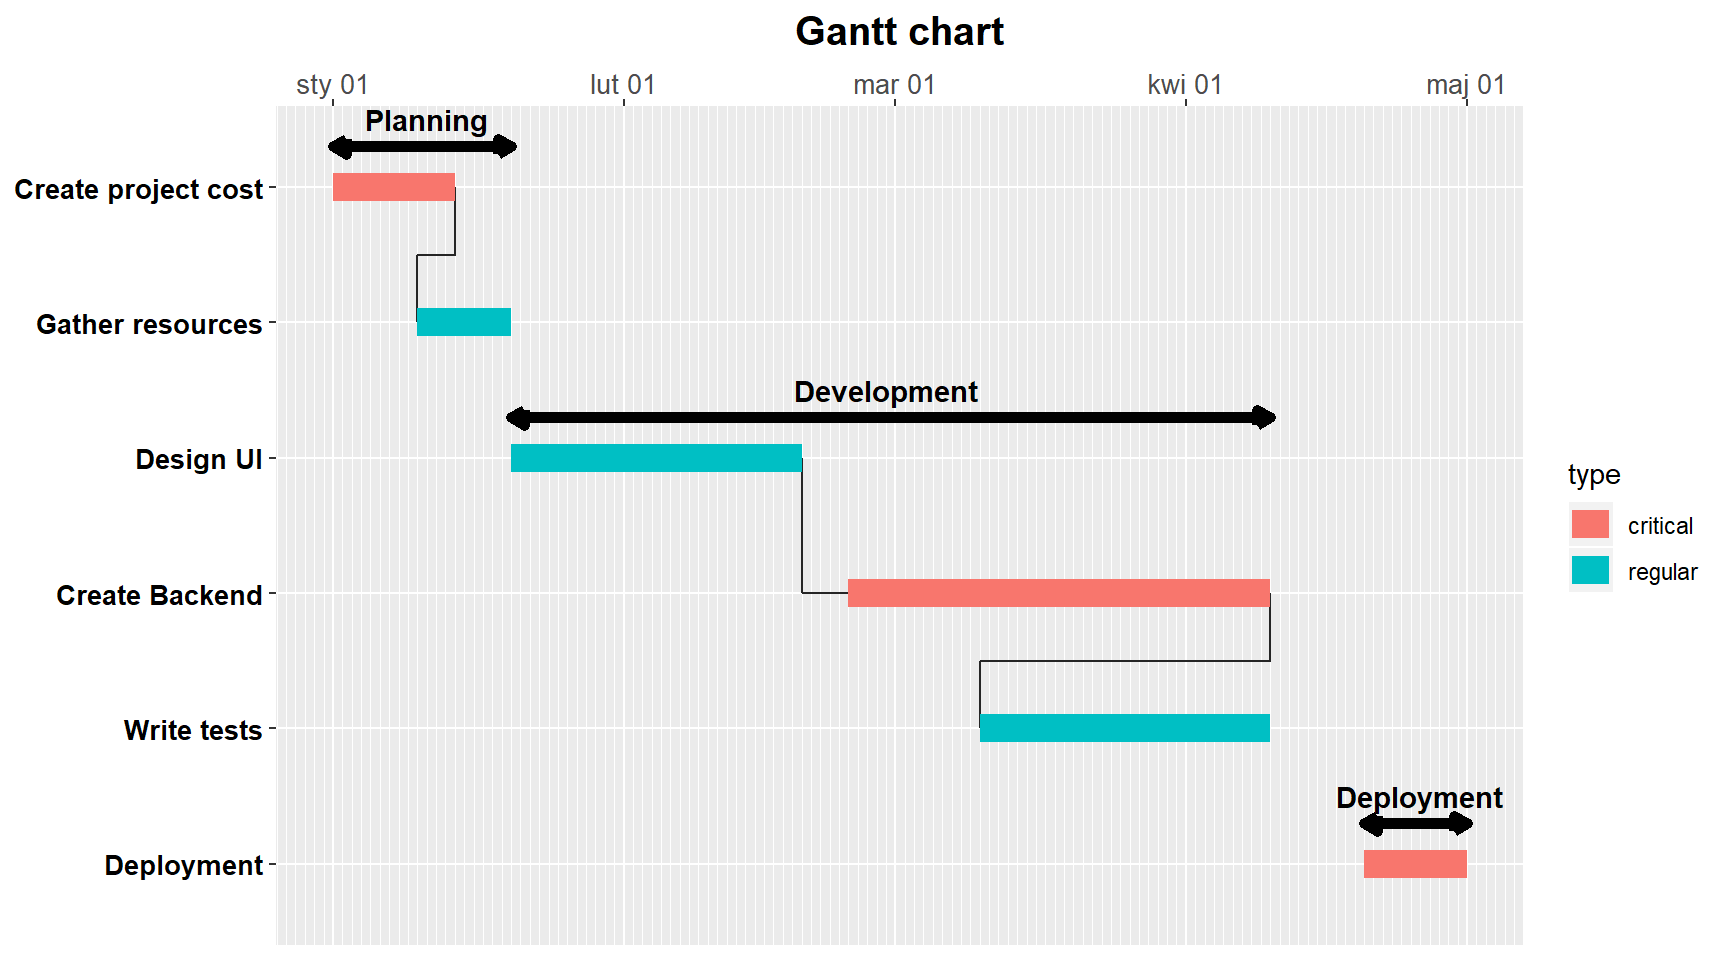
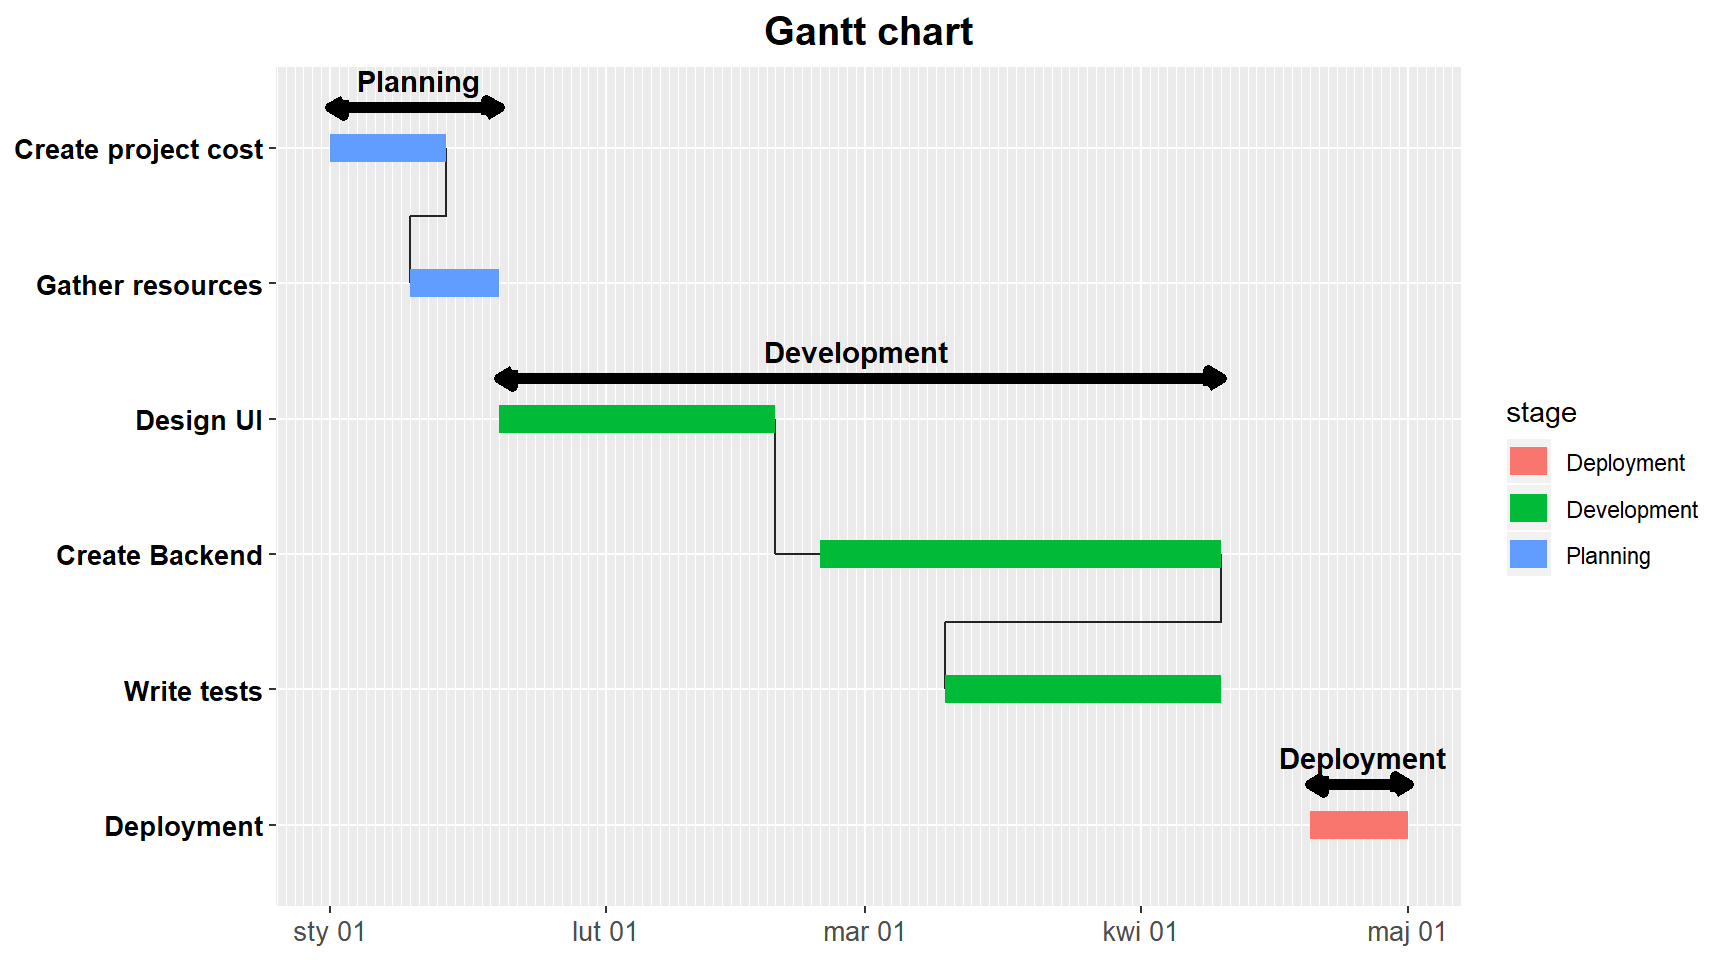
tests added, vignette change

diff --git a/docs/articles/gantt.html b/docs/articles/gantt.html
@@ -214,13 +214,13 @@
 <a href="#case-1" class="anchor"></a>Case #1</h3>
 <p><strong>Requirements</strong>:</p>
 <ul>
-<li>have dates shown in the top of the plot</li>
 <li>tasks are connected with paths in all stages</li>
 <li>task labels are black</li>
+<li>tasks bar should be colored by stages</li>
 </ul>
-<div class="sourceCode" id="cb5"><pre class="sourceCode r"><code class="sourceCode r"><a class="sourceLine" id="cb5-1" data-line-number="1">conf &lt;-<span class="st"> </span>gantt<span class="op">::</span><span class="kw"><a href="https://rdrr.io/pkg/gantt/man/create_gantt_config.html">create_gantt_config</a></span>(<span class="dt">x_axis_label_position =</span> <span class="st">'top'</span>,</a>
-<a class="sourceLine" id="cb5-2" data-line-number="2">                                   <span class="dt">stage_path =</span> <span class="ot">TRUE</span>, <span class="dt">control_path =</span> <span class="ot">FALSE</span>,</a>
-<a class="sourceLine" id="cb5-3" data-line-number="3">                                   <span class="dt">y_axis_color_by_stages =</span> <span class="ot">FALSE</span>)</a>
+<div class="sourceCode" id="cb5"><pre class="sourceCode r"><code class="sourceCode r"><a class="sourceLine" id="cb5-1" data-line-number="1">conf &lt;-<span class="st"> </span>gantt<span class="op">::</span><span class="kw"><a href="https://rdrr.io/pkg/gantt/man/create_gantt_config.html">create_gantt_config</a></span>(<span class="dt">stage_path =</span> <span class="ot">TRUE</span>, <span class="dt">control_path =</span> <span class="ot">FALSE</span>,</a>
+<a class="sourceLine" id="cb5-2" data-line-number="2">                                   <span class="dt">y_axis_color_by_stages =</span> <span class="ot">FALSE</span>,</a>
+<a class="sourceLine" id="cb5-3" data-line-number="3">                                   <span class="dt">task_bar_color =</span> <span class="st">'stage'</span>)</a>
 <a class="sourceLine" id="cb5-4" data-line-number="4">gantt<span class="op">::</span><span class="kw"><a href="https://rdrr.io/pkg/gantt/man/gantt.html">gantt</a></span>(<span class="dt">task =</span> task, <span class="dt">conf =</span> conf)</a></code></pre></div>
 <p><img src="gantt_files/figure-html/unnamed-chunk-6-1.png" width="864"></p>
 </div>
@@ -247,11 +247,11 @@
 <ul>
 <li>Chart should be titled ‘App development schedule’ and it should be bigger</li>
 <li>tasks are connected within fazes and control groups</li>
-<li>tasks bar should be colored by stages</li>
+<li>have dates shown in the top of the plot</li>
 </ul>
 <div class="sourceCode" id="cb7"><pre class="sourceCode r"><code class="sourceCode r"><a class="sourceLine" id="cb7-1" data-line-number="1">conf &lt;-<span class="st"> </span>gantt<span class="op">::</span><span class="kw"><a href="https://rdrr.io/pkg/gantt/man/create_gantt_config.html">create_gantt_config</a></span>(<span class="dt">plot_title =</span> <span class="st">'App development schedule'</span>, <span class="dt">plot_title_size =</span> <span class="dv">15</span>,</a>
 <a class="sourceLine" id="cb7-2" data-line-number="2">                                   <span class="dt">stage_path =</span> <span class="ot">TRUE</span>, <span class="dt">control_path =</span> <span class="ot">TRUE</span>,</a>
-<a class="sourceLine" id="cb7-3" data-line-number="3">                                   <span class="dt">task_bar_color =</span> <span class="st">'stage'</span></a>
+<a class="sourceLine" id="cb7-3" data-line-number="3">                                   <span class="dt">x_axis_label_position =</span> <span class="st">'top'</span></a>
 <a class="sourceLine" id="cb7-4" data-line-number="4">                                   )</a>
 <a class="sourceLine" id="cb7-5" data-line-number="5">gantt<span class="op">::</span><span class="kw"><a href="https://rdrr.io/pkg/gantt/man/gantt.html">gantt</a></span>(<span class="dt">task =</span> task, <span class="dt">conf =</span> conf)</a></code></pre></div>
 <p><img src="gantt_files/figure-html/unnamed-chunk-8-1.png" width="864"></p>
